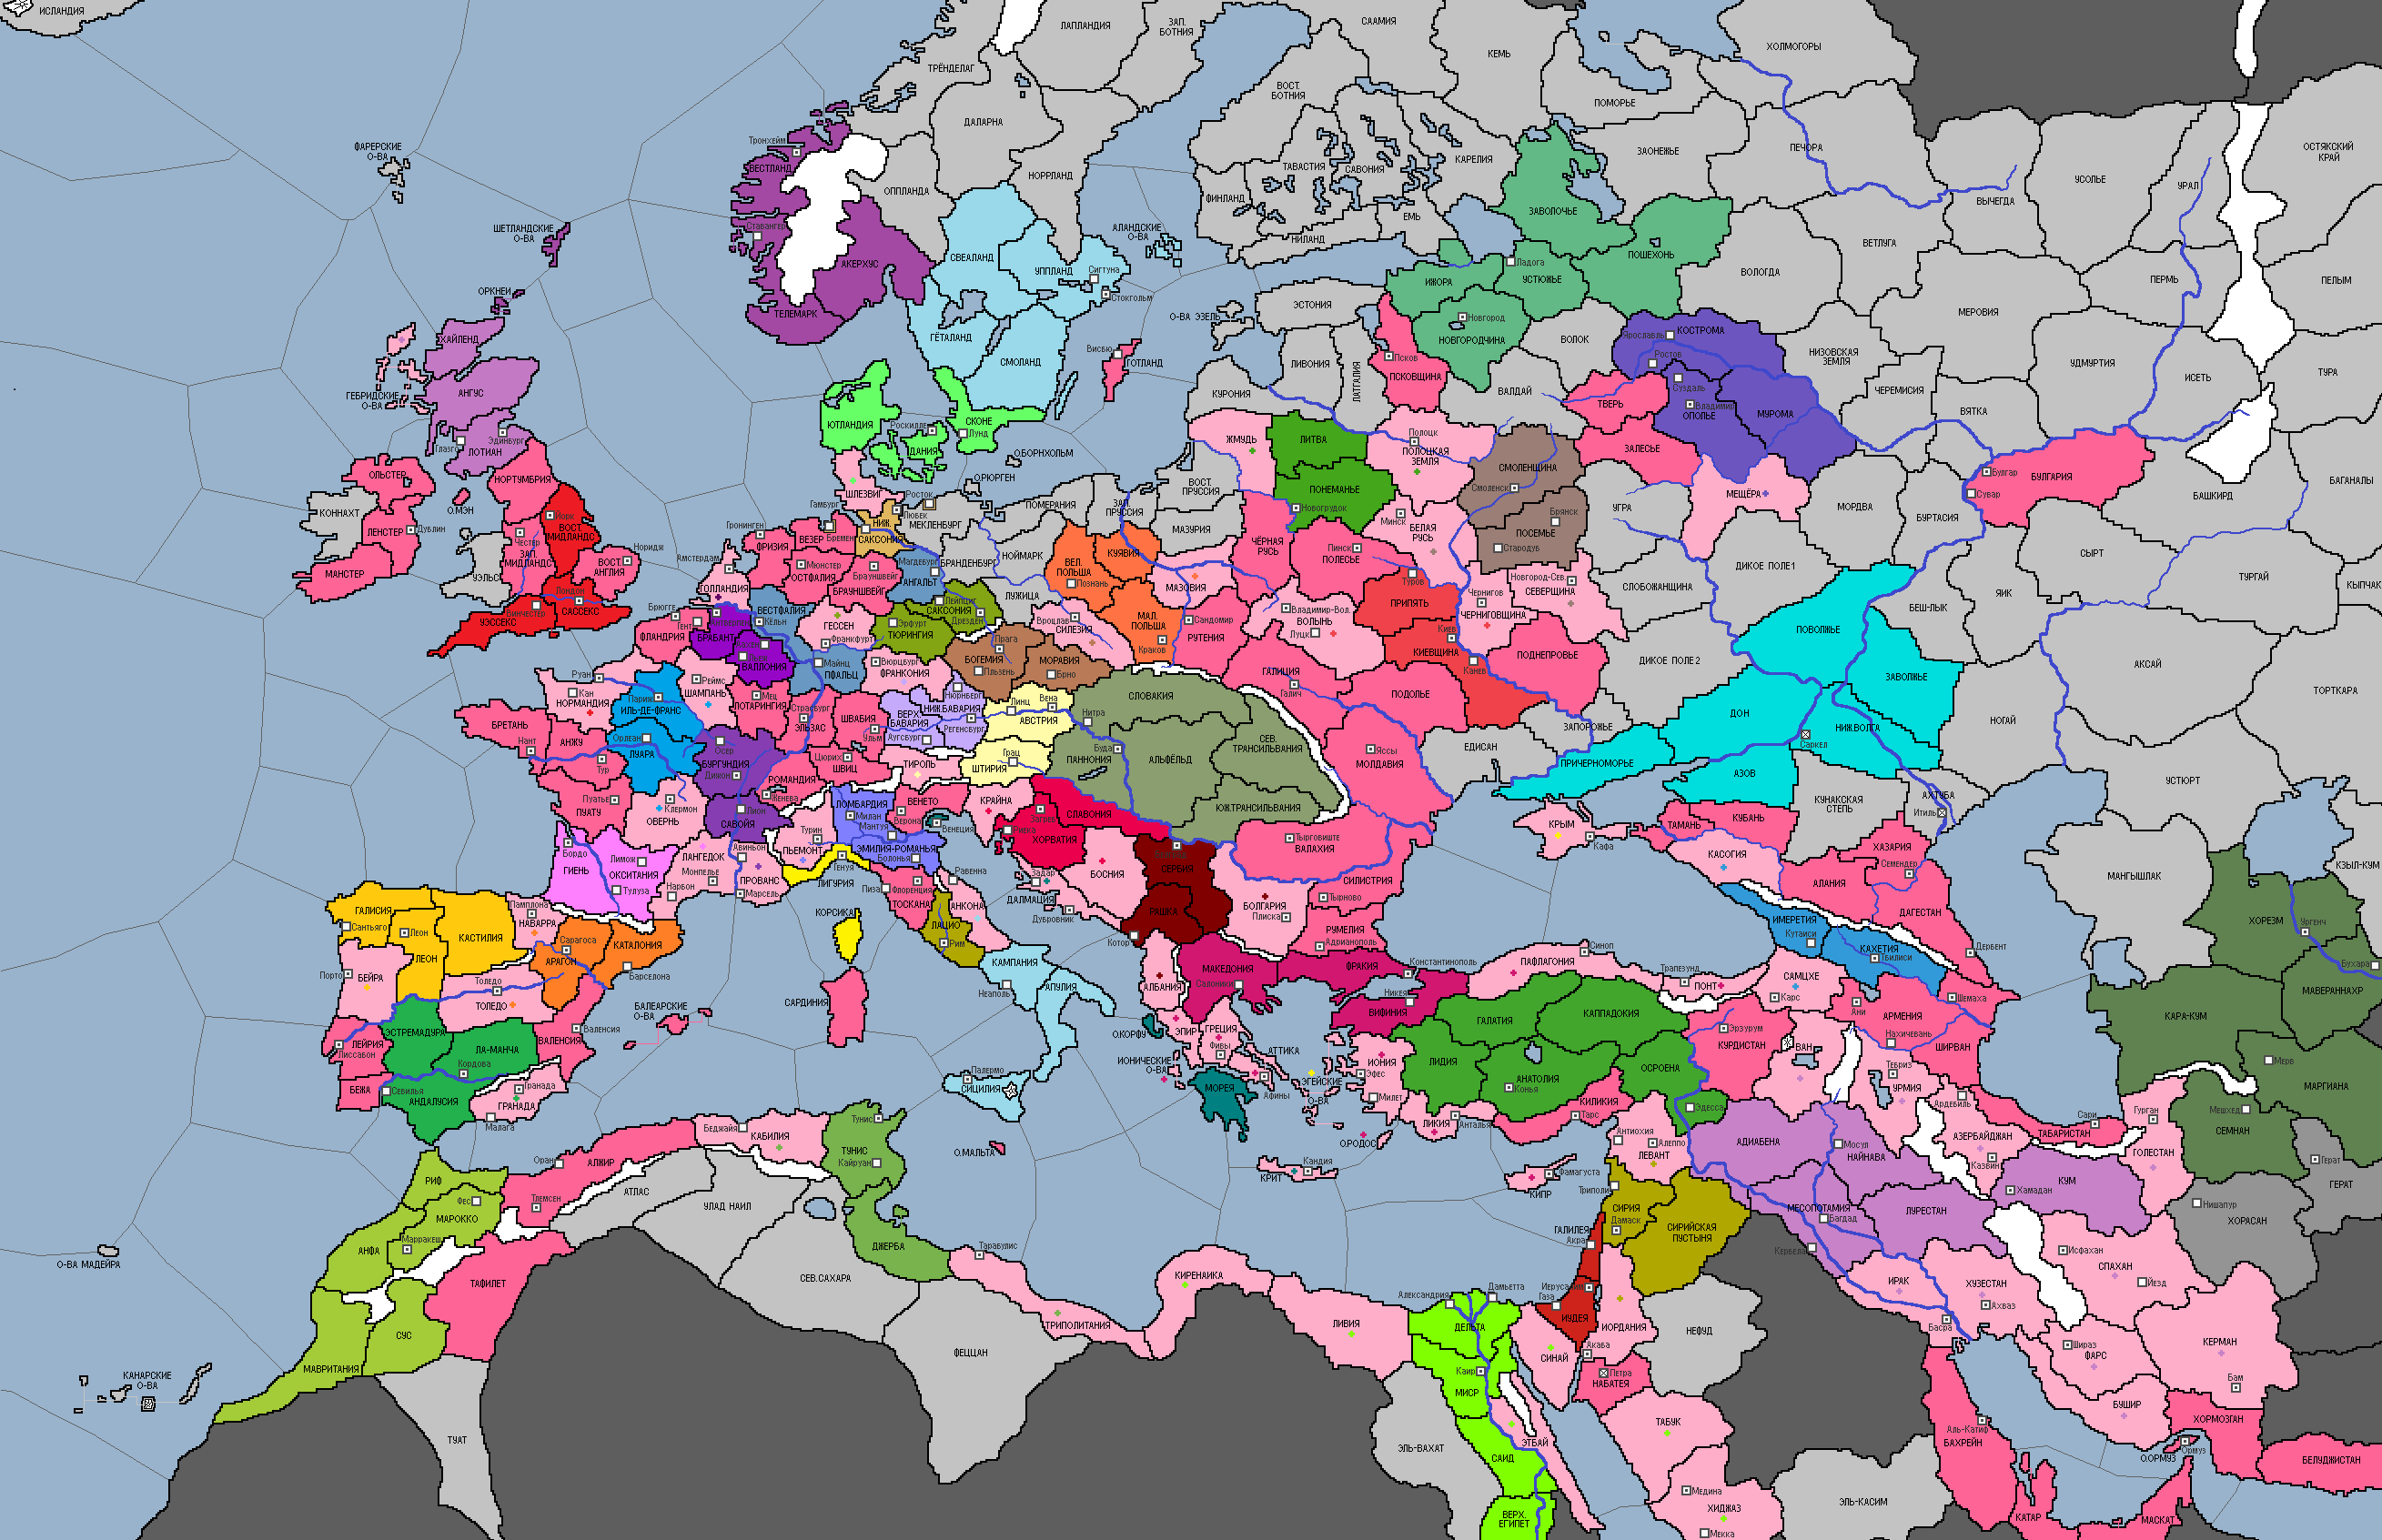
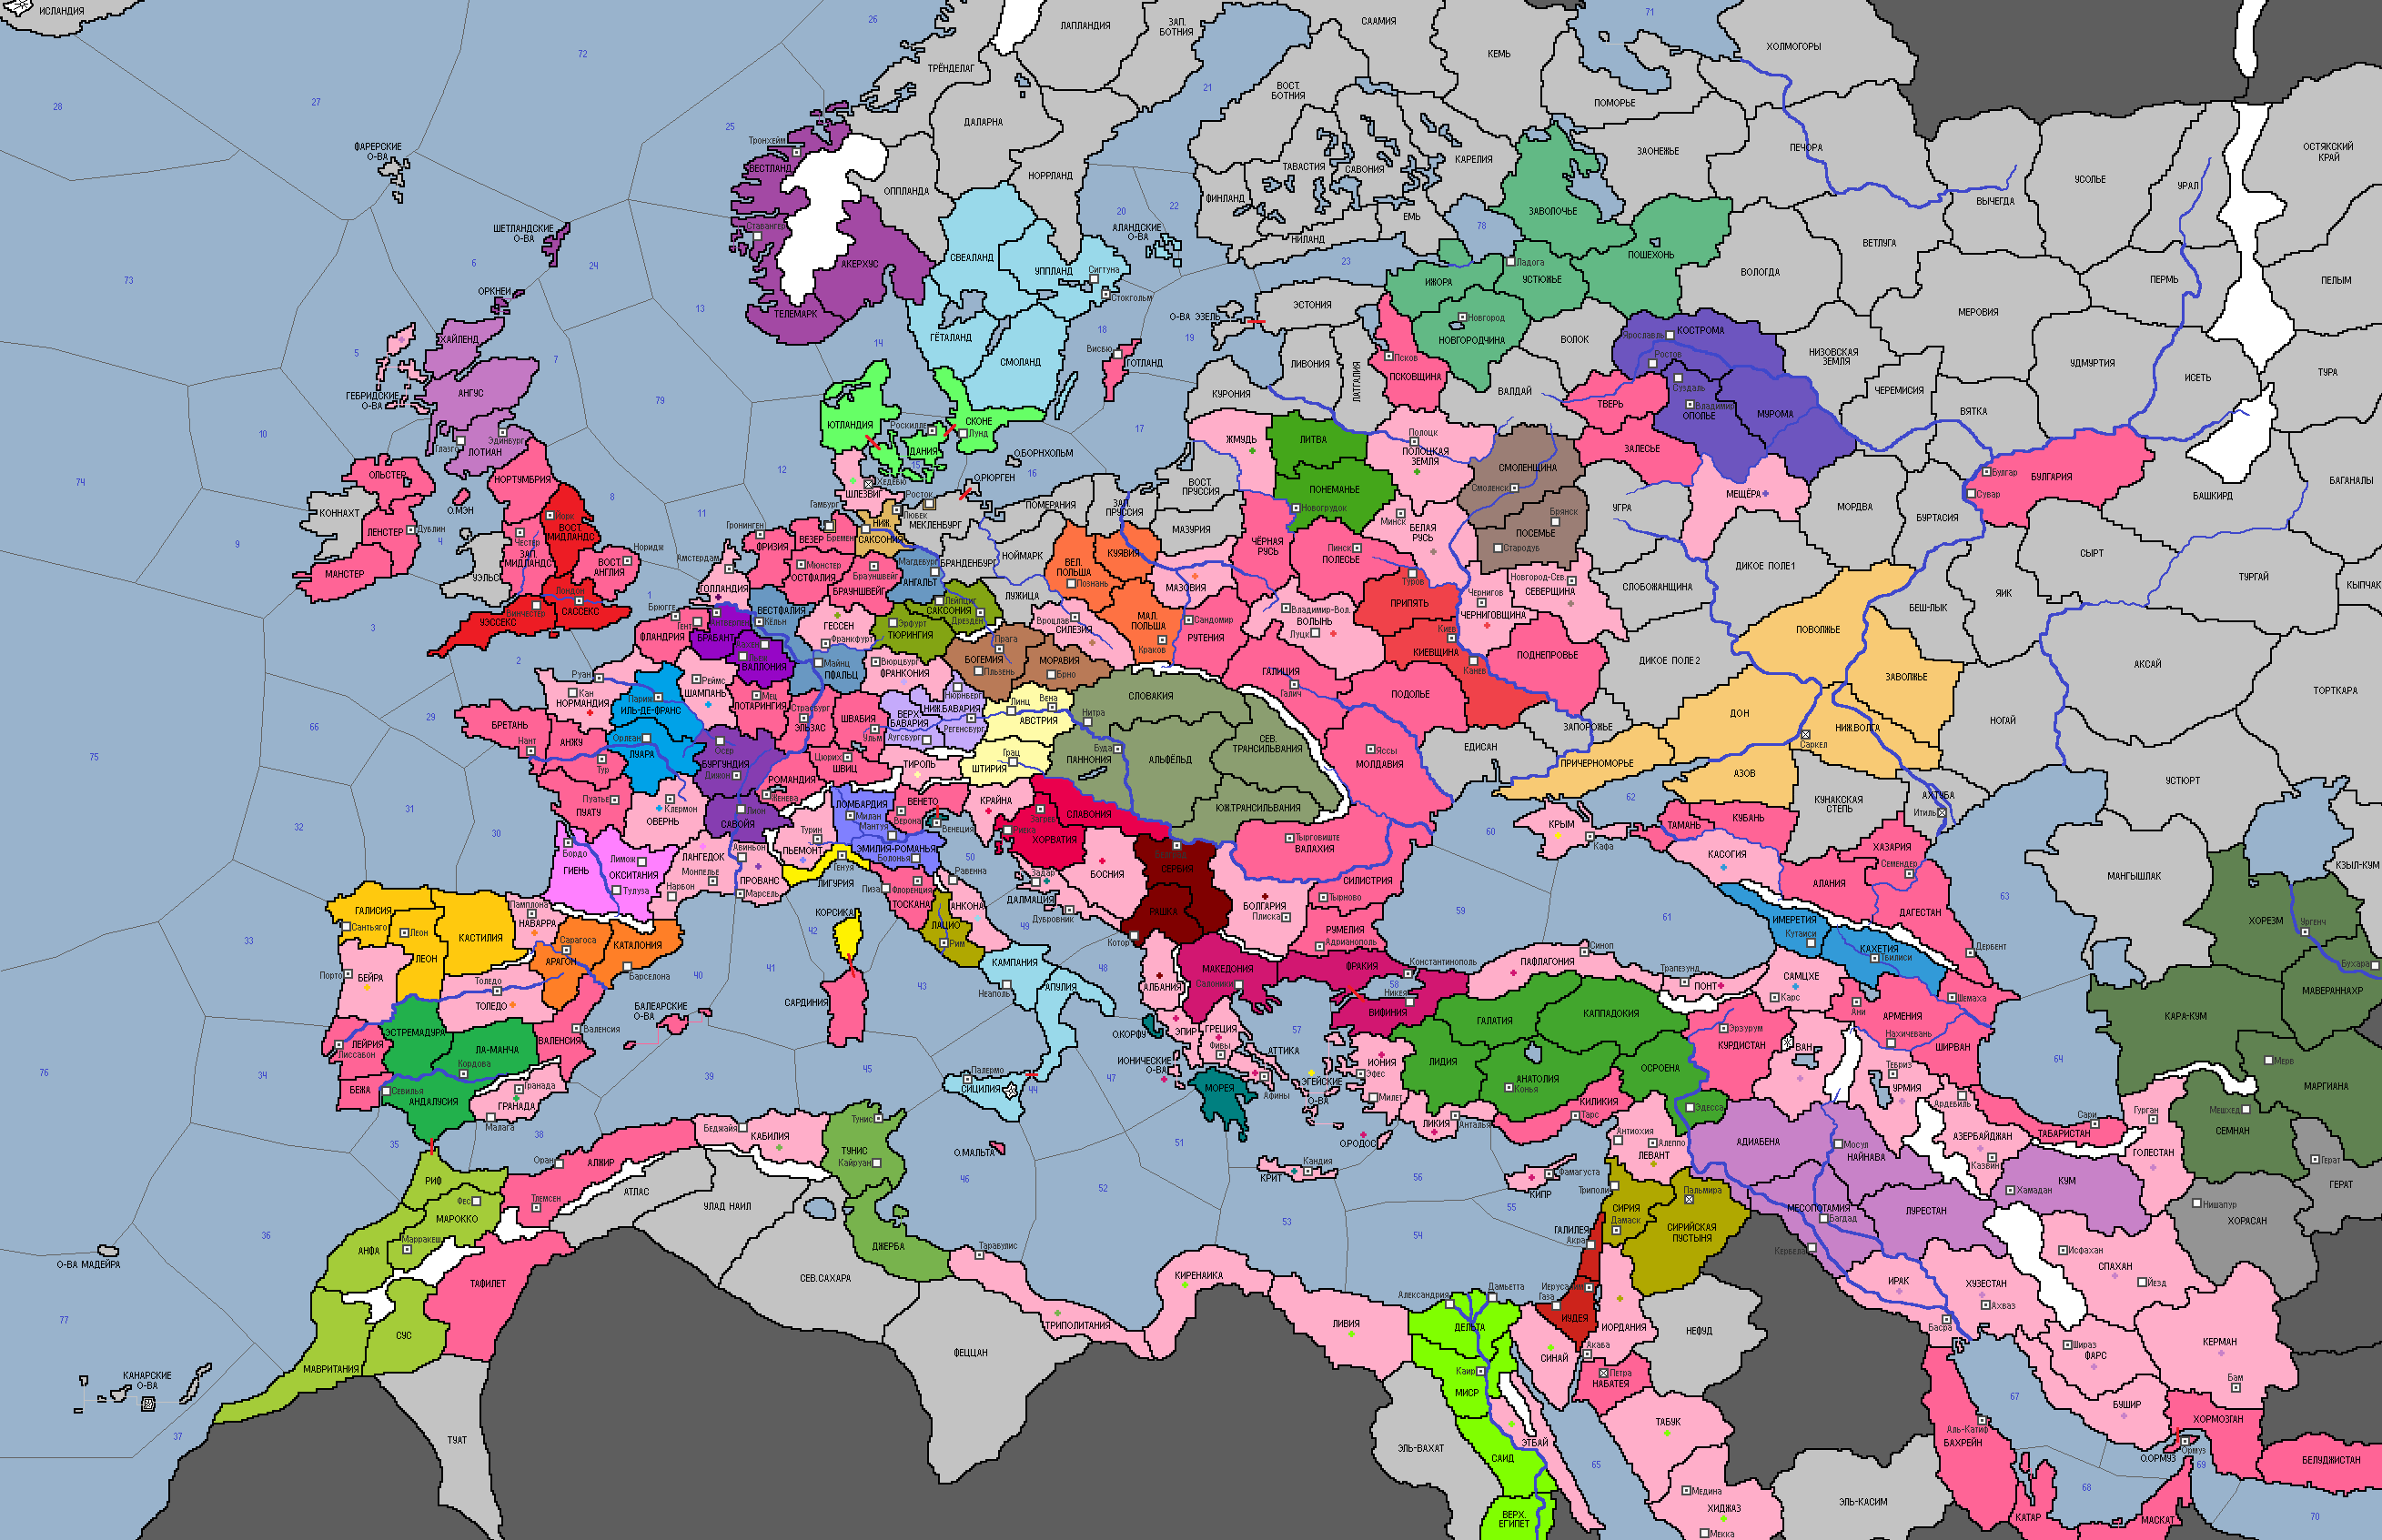
Обновлены полит и ресурская карты. Таблица с постройками.

Changed region(s): [[0.6188, 0.3686, 0.8354, 0.5222]]

diff --git a/tables-script.js b/tables-script.js
@@ -44,6 +44,7 @@ const perki_praviteli = document.getElementById("perki_praviteli");
 const vse_zakony = document.getElementById("vse_zakony");
 const vassals = document.getElementById("vassals");
 const razmer_locacii = document.getElementById("razmer_locacii");
+const vse_postroyki = document.getElementById("vse_postroyki");
 
 // const vse_tekhnologii = document.getElementById("vse_tekhnologii");
 // const vse_tekhnologii = document.getElementById("vse_tekhnologii");
@@ -196,6 +197,11 @@ razmer_locacii.addEventListener("click",() => {
     img.src="tables/razmer_locacii.png"
     img.style.width = "40%"
     img.style.height = "40%"
+});
+vse_postroyki.addEventListener("click",() => {
+    img.src="tables/vse_postroyki.png"
+    img.style.width = "90"
+    img.style.height = "90%"
 });
 
 // religion.addEventListener("click",() => {

diff --git a/log.html b/log.html
@@ -22,6 +22,7 @@
     <div class="container">
         <p>История изменений:</p>
         <!-- <p>14.06.2023: <a href="turns/turn12.html">Добавлен 12 ход</a></p> -->
+        <p>19.03.2026: Обновлена политическая и ресурсная карта. Добавлена таблица построек.</p>
         <p>17.03.2026: Добавлена таблица макс. размера локаций. Обновлена ссылка на считалку расстояний(с расстояниями до ТЦ).</p>
         <p>16.03.2026: В таблицы добавлена информация о покровительстве и присоединении вассалов.</p>
         <p>16.03.2026: Добавлена ссылка на считалку расстояний(категория: Ссылки).</p>

diff --git a/tables.html b/tables.html
@@ -43,6 +43,7 @@
         <button class="btn" id="vse_zakony">Законы</button>
         <button class="btn" id="vassals">Вассалы</button>
         <button class="btn" id="razmer_locacii">Размер локаций</button>
+        <button class="btn" id="vse_postroyki">Постройки</button>
 
         <!-- <button class="btn" id="buildings"> Постройки </button> -->
         <!-- <button class="btn" id="fpVp"> Вн. Политика </button> -->